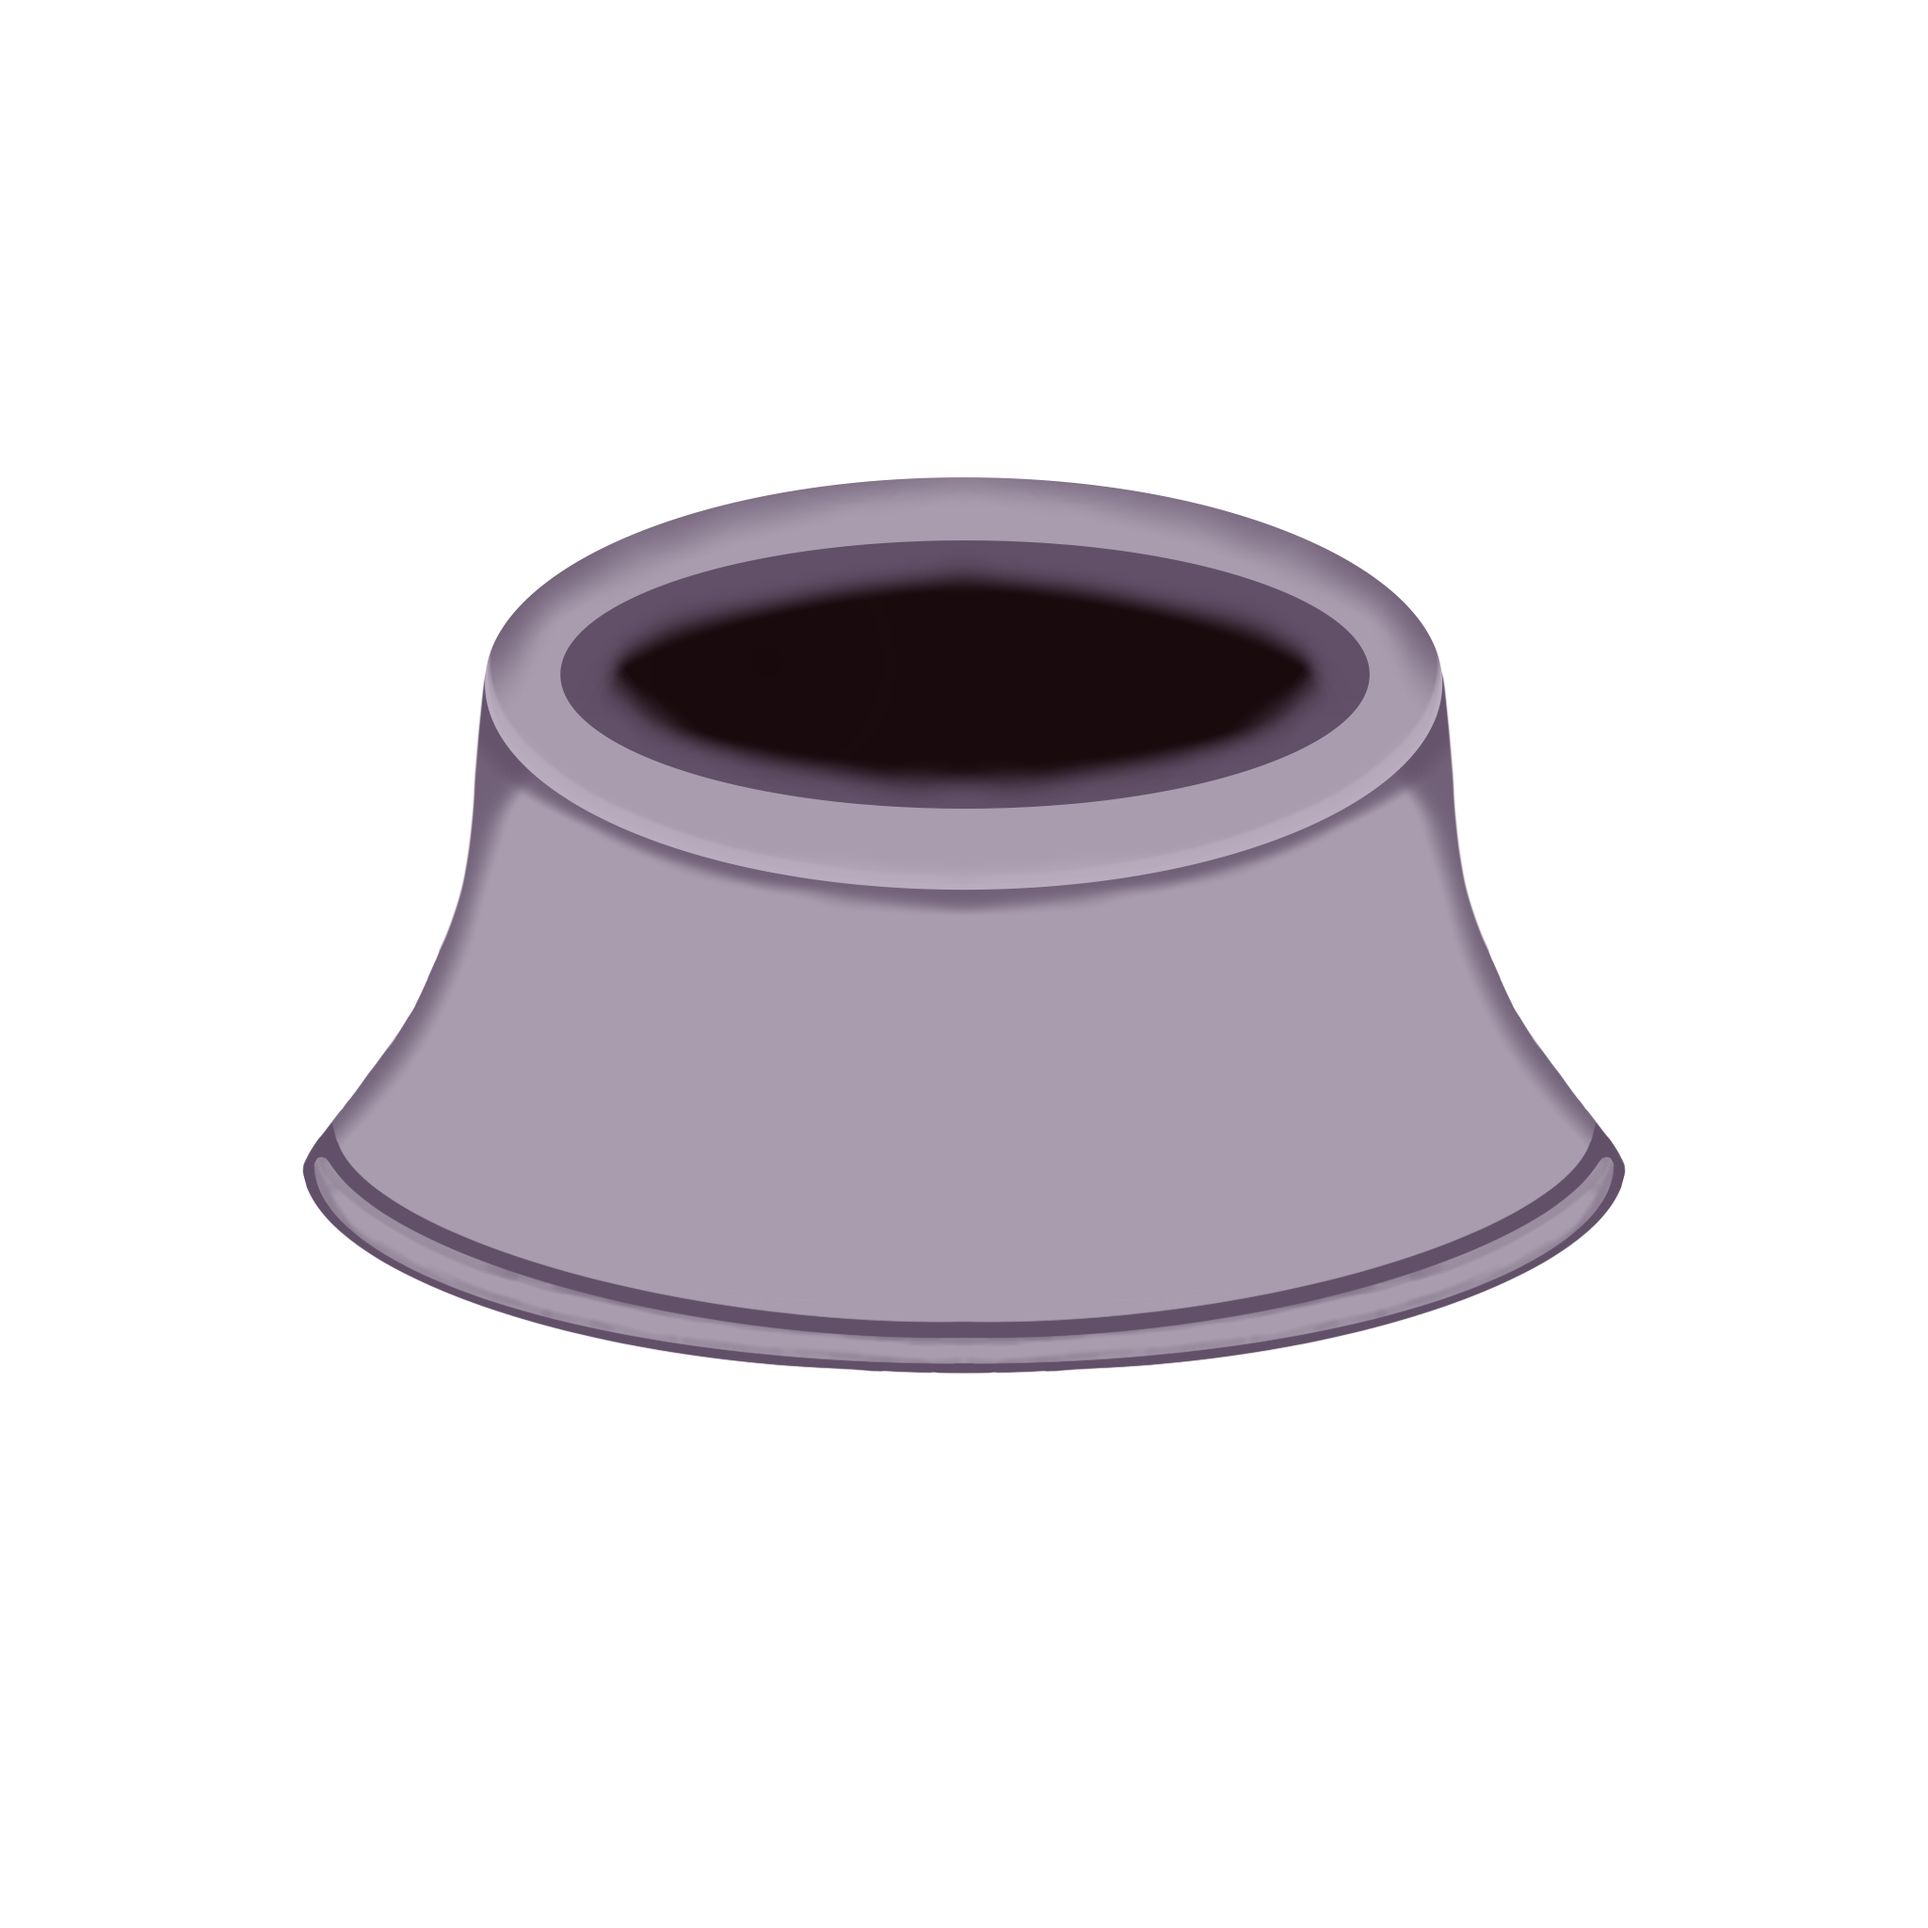
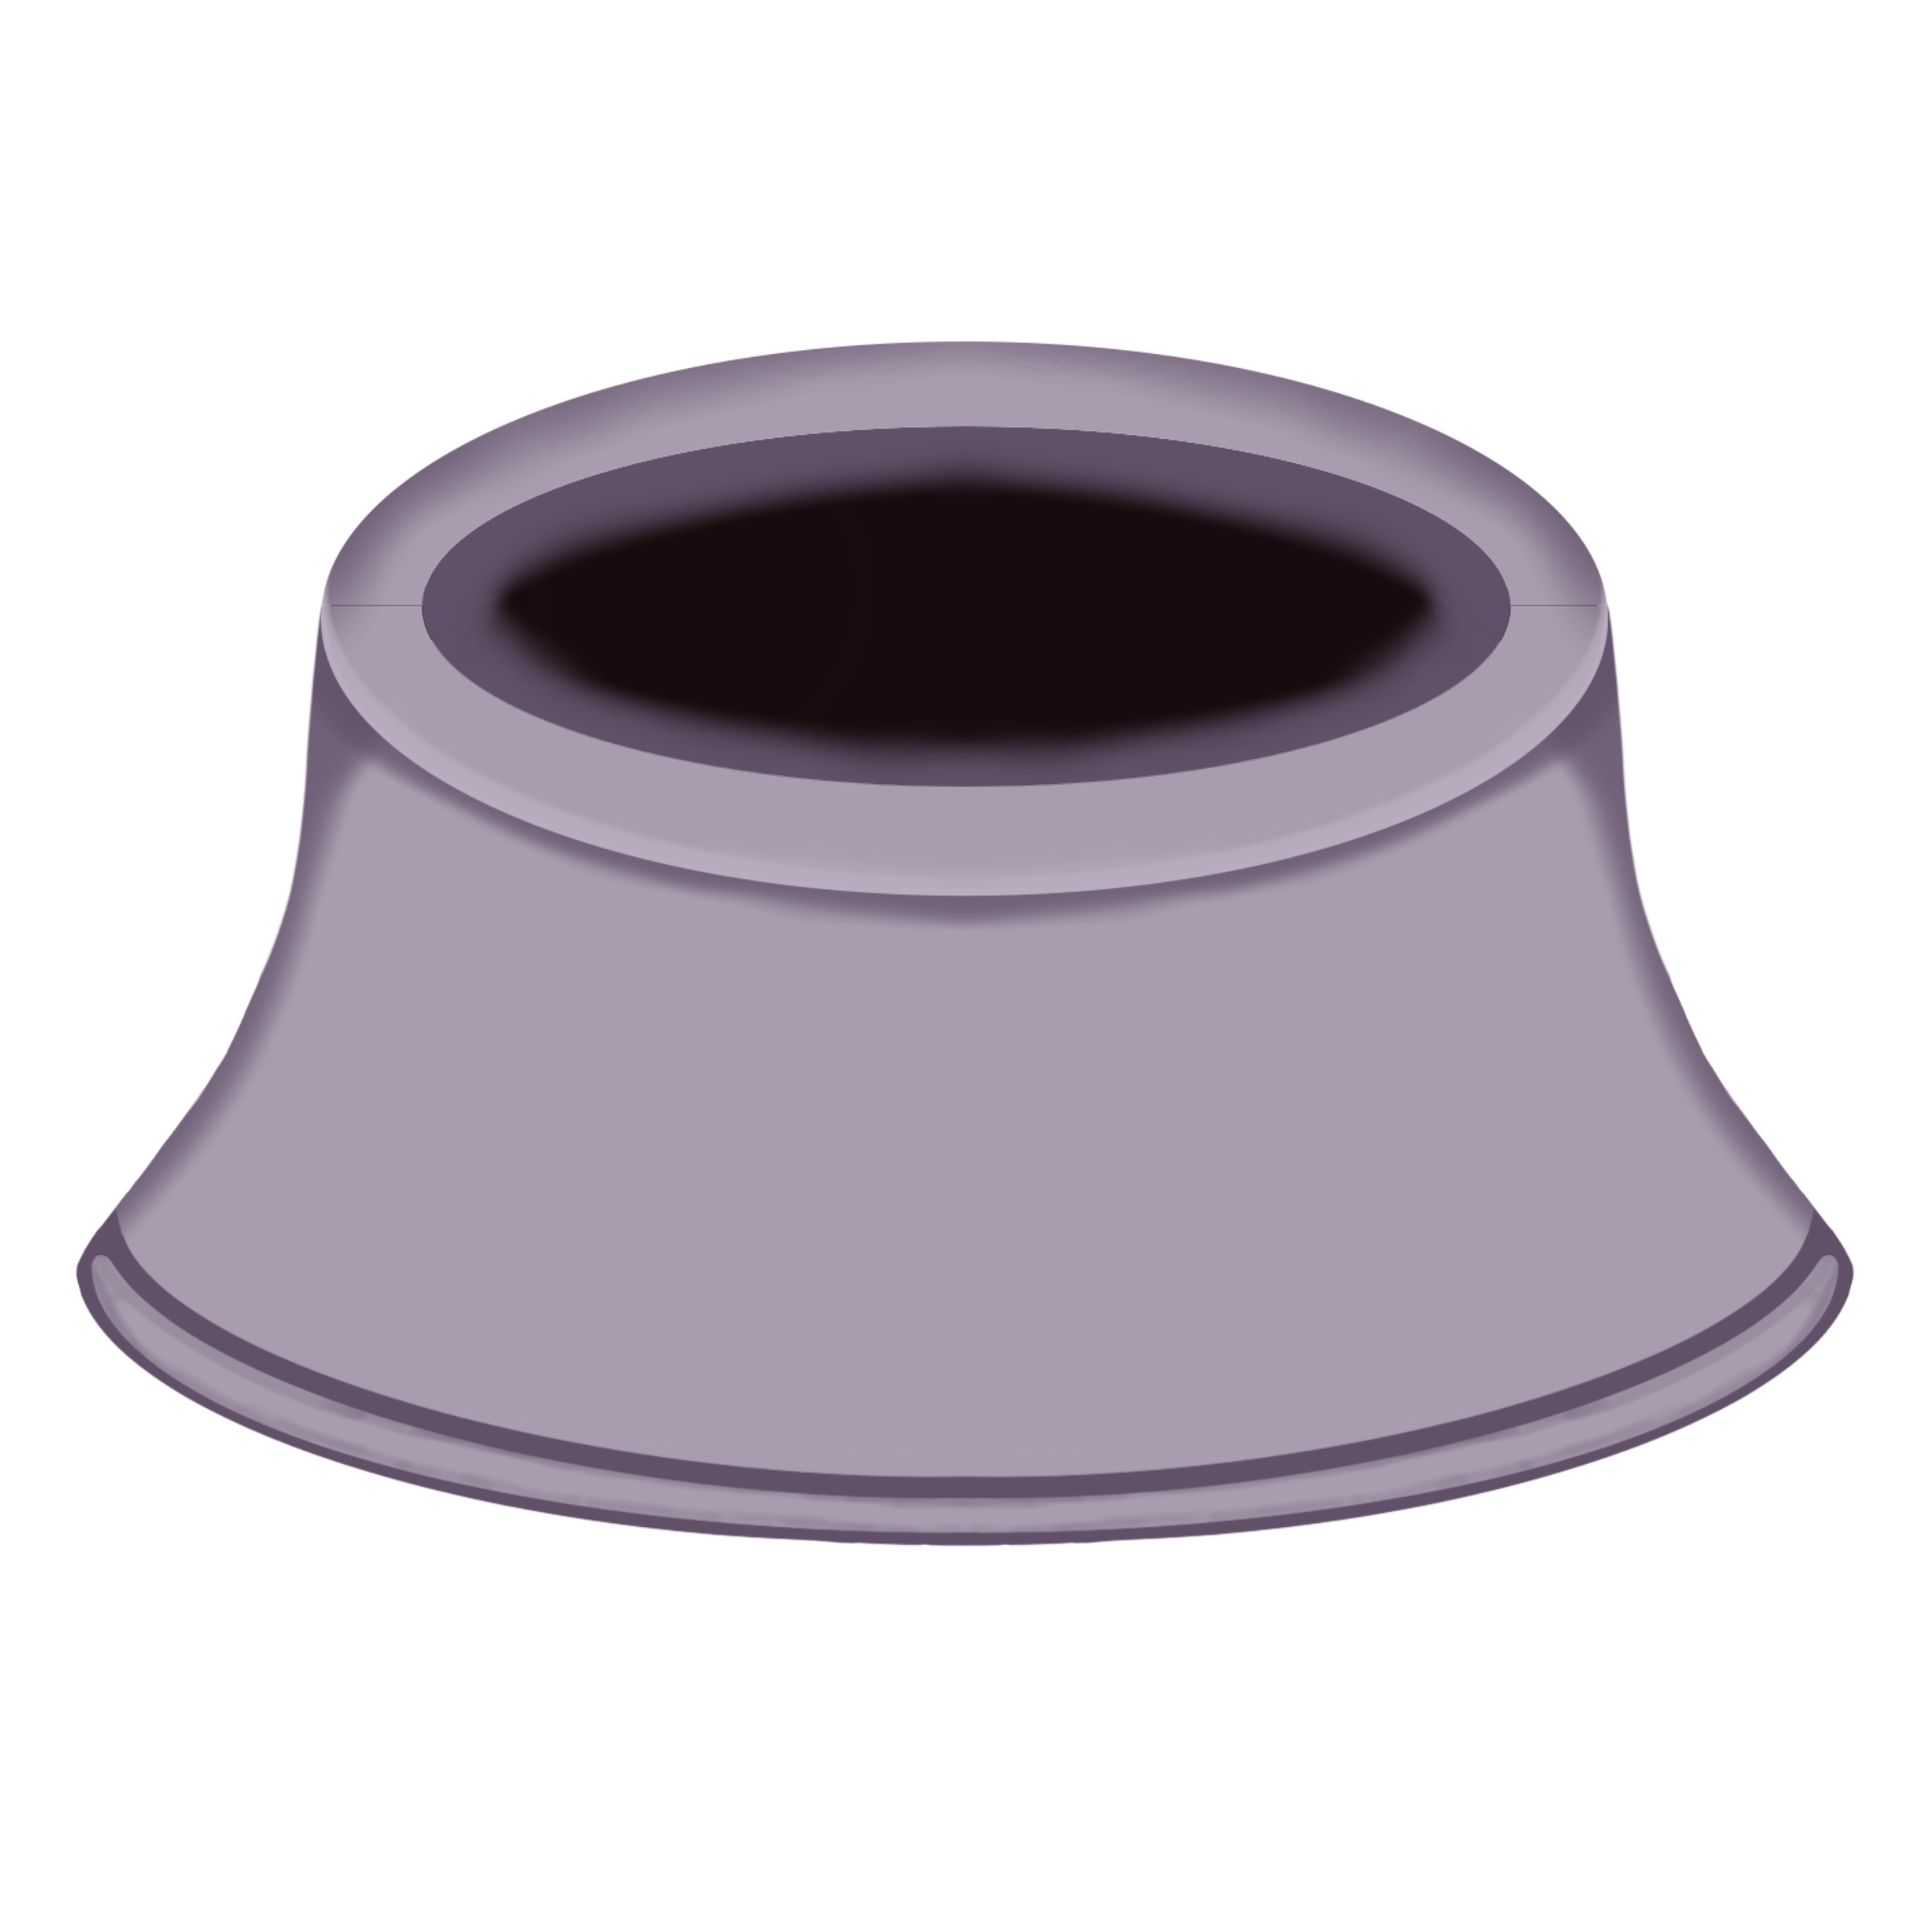
Dynamically add labels to bowls
-Made the bowl size and the text size bigger
-Text is now added in-code as opposed to part of the asset
-Fixed more issues with double placements

Changed region(s): [[0.0312, 0.1562, 0.9688, 0.8125]]

diff --git a/Assets/Scripts/RespawnDetector.cs b/Assets/Scripts/RespawnDetector.cs
@@ -1,6 +1,7 @@
 using System.Collections;
 using System.Collections.Generic;
 using UnityEngine;
+using TMPro;
 
 public class RespawnDetector : MonoBehaviour
 {
@@ -8,17 +9,25 @@ public class RespawnDetector : MonoBehaviour
     public Transform respawnSpot;
     private bool currentlyOccupied;
 
-    public List<GameObject> prefabList = new List<GameObject>();
+    public List<GameObject> prefabList = new List<GameObject>(); //Select from a list of prefabs
+
+    //TO-TRY --> Make 4 list of words to assign to 4 arrays
+    private static string[] boolArray = { "True", "False"};
+    private static string[] stringArray = { "Scruffy", "Catnip", "Bucket", "Luigi", "Zelda" };
+    private static string[] floatArray = { "3.1415", "0.01", "0.99" };
+    private static string[] intArray = { "32", "11", "0", "255", "25" };
+
+
+    private string[][] selectionArray = new string[4][] { boolArray, stringArray, floatArray, intArray };
+
+    //public GameObject objectToLabel; //DELETE?
+
 
     // Start is called before the first frame update
     void Start()
     {
         Debug.Log("Placing bucket on start");
-        int prefabIndex = Random.Range(0, prefabList.Count - 1);
-        GameObject bucket = Instantiate(prefabList[prefabIndex]);
-        bucket.transform.position = respawnSpot.position;
-        bucket.transform.parent = transform;
-        currentlyOccupied = true;
+        Spawn();
     }
 
     // Update is called once per frame
@@ -45,12 +54,22 @@ public class RespawnDetector : MonoBehaviour
     IEnumerator Respawn(Collider2D other, int time)
     {   
         yield return new WaitForSeconds(time);
-        int prefabIndex = Random.Range(0, prefabList.Count);
+        Spawn();
+        Debug.Log("Respawning!");
+    }
+
+    public void Spawn()
+    {
+        int prefabIndex = Random.Range(0, prefabList.Count); //min inclusive, max exclusive
         GameObject bucket = Instantiate(prefabList[prefabIndex]);
         bucket.transform.position = respawnSpot.position;
-        bucket.transform.parent = transform; //Just added, see if its fine
+        bucket.transform.parent = transform;
+
+        int first = prefabIndex;
+        int second = Random.Range(0, selectionArray[prefabIndex].Length);
+        Debug.Log("first: " + first + ", second: " + second);
+        bucket.GetComponentInChildren<TextMeshPro>().text = selectionArray[first][second];
         currentlyOccupied = true;
-        Debug.Log("Respawning!");
     }
 
 }

diff --git a/Assets/Scripts/ItemDetector.cs b/Assets/Scripts/ItemDetector.cs
@@ -8,7 +8,7 @@ public class ItemDetector : MonoBehaviour
     public GameObject itemPlaced;
     public bool currentlyOccupied;
     public Sprite newSprite;
-    private string newTag = "TransformedObject";
+    private string newTag = "PlacedBowl";
     public GameObject newPrefab;
     //private int wasClicked = 4;
 
@@ -20,6 +20,7 @@ public class ItemDetector : MonoBehaviour
     {
         //getIndexClicked = buttonPressed.GetComponent<BranchingDialogueController>();
         //Debug.Log(getIndexClicked.clickedIndex);
+        currentlyOccupied = false;
         
     }
 
@@ -40,11 +41,12 @@ public class ItemDetector : MonoBehaviour
         //If the object is detected to be placed
         if (other.gameObject.tag == "Bowl" && !other.isTrigger)
         {
-            itemPlaced = other.gameObject;
+            //itemPlaced = other.gameObject;
             Debug.Log("Object entered");
             //Transform the position of the placed object to the spot and set as child
             if (!currentlyOccupied)
             {
+                itemPlaced = other.gameObject;
                 Debug.Log("now occupied");
                 other.transform.position = placeSpot.position;
                 other.transform.parent = transform;
@@ -56,6 +58,7 @@ public class ItemDetector : MonoBehaviour
                 Debug.Log(other.gameObject.tag);
                 other.gameObject.tag = newTag;
                 Debug.Log(other.gameObject.tag);
+                other.gameObject.layer = 7;
             }
             else
             {
@@ -70,12 +73,16 @@ public class ItemDetector : MonoBehaviour
     {
         //itemPlaced = null; //Unset it
 
-        if (other.gameObject.tag == "Bowl" && !other.isTrigger)
+        if (other.gameObject.tag == "PlacedBowl" && !other.isTrigger)
         {
-            itemPlaced = null; //Unset it if tag is
-            Debug.Log("Object exited");
-            currentlyOccupied = false;
-            Debug.Log("now not occupied");
+            if (currentlyOccupied)
+            {
+                itemPlaced = null; //Unset it if tag is
+                Debug.Log("Object exited");
+                currentlyOccupied = false;
+                Debug.Log("now not occupied");
+            }
+
 
         }
 

diff --git a/Assets/Scripts/PickUp.cs b/Assets/Scripts/PickUp.cs
@@ -9,7 +9,7 @@ public class PickUp : MonoBehaviour
     public LayerMask wallCollisionMask;
     public LayerMask objectCollisionMask;
     public Vector3 Direction { get; set; }
-    public GameObject itemHolding;
+    private GameObject itemHolding;
     private LayerMask allCollisions;
 
 
@@ -26,8 +26,8 @@ public class PickUp : MonoBehaviour
 
         if(hit.collider != null)
         {
-            Debug.Log("hit something!");
-            Debug.Log(hit.collider.name);
+            //Debug.Log("hit something!");
+            //Debug.Log(hit.collider.name);
             Debug.DrawLine(ray.origin, hit.point);
         }
 
